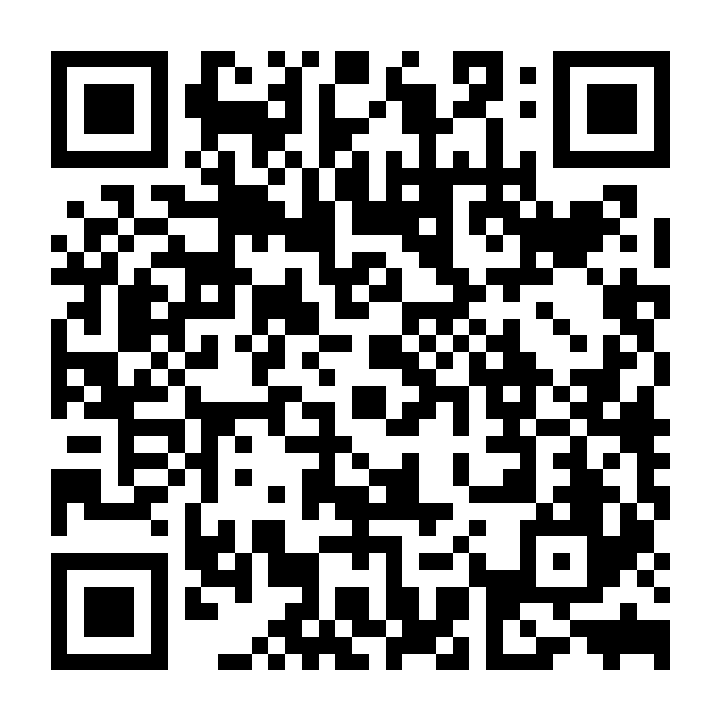
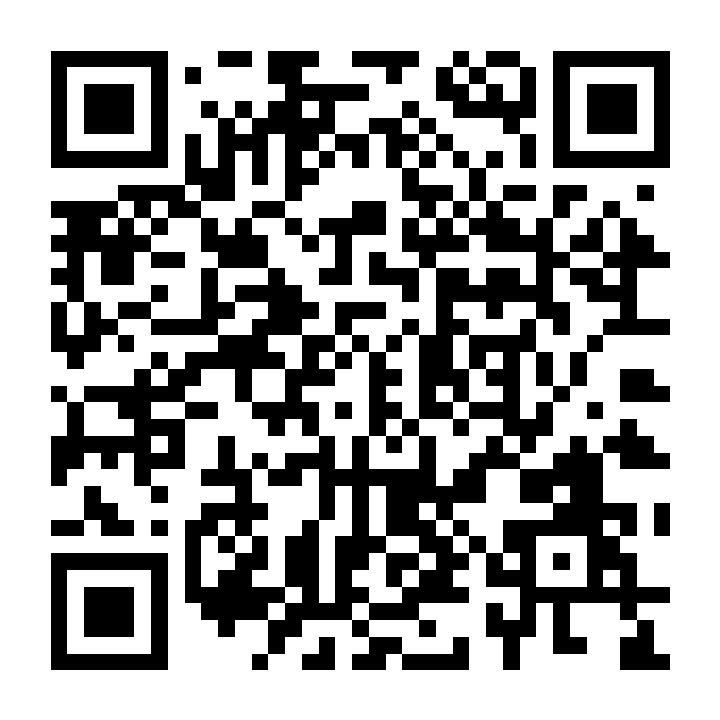
Add public slide link and QR code

Changed region(s): [[0.0611, 0.0611, 0.9472, 0.9472], [0.3972, 0.0611, 0.4278, 0.0917]]

diff --git a/README.md b/README.md
@@ -2,7 +2,7 @@
 
 Slides for “Inferring AI-Act-Relevant Application Contexts from Prompts for Enterprise Chatbot Governance”, presented at ECDA 2026.
 
-[Open the presentation](https://mchlbckr.github.io/ecda-2026-slides/)
+[Open the presentation](https://buecker.ms/ecda-2026-slides/)
 
 ## Render locally
 
